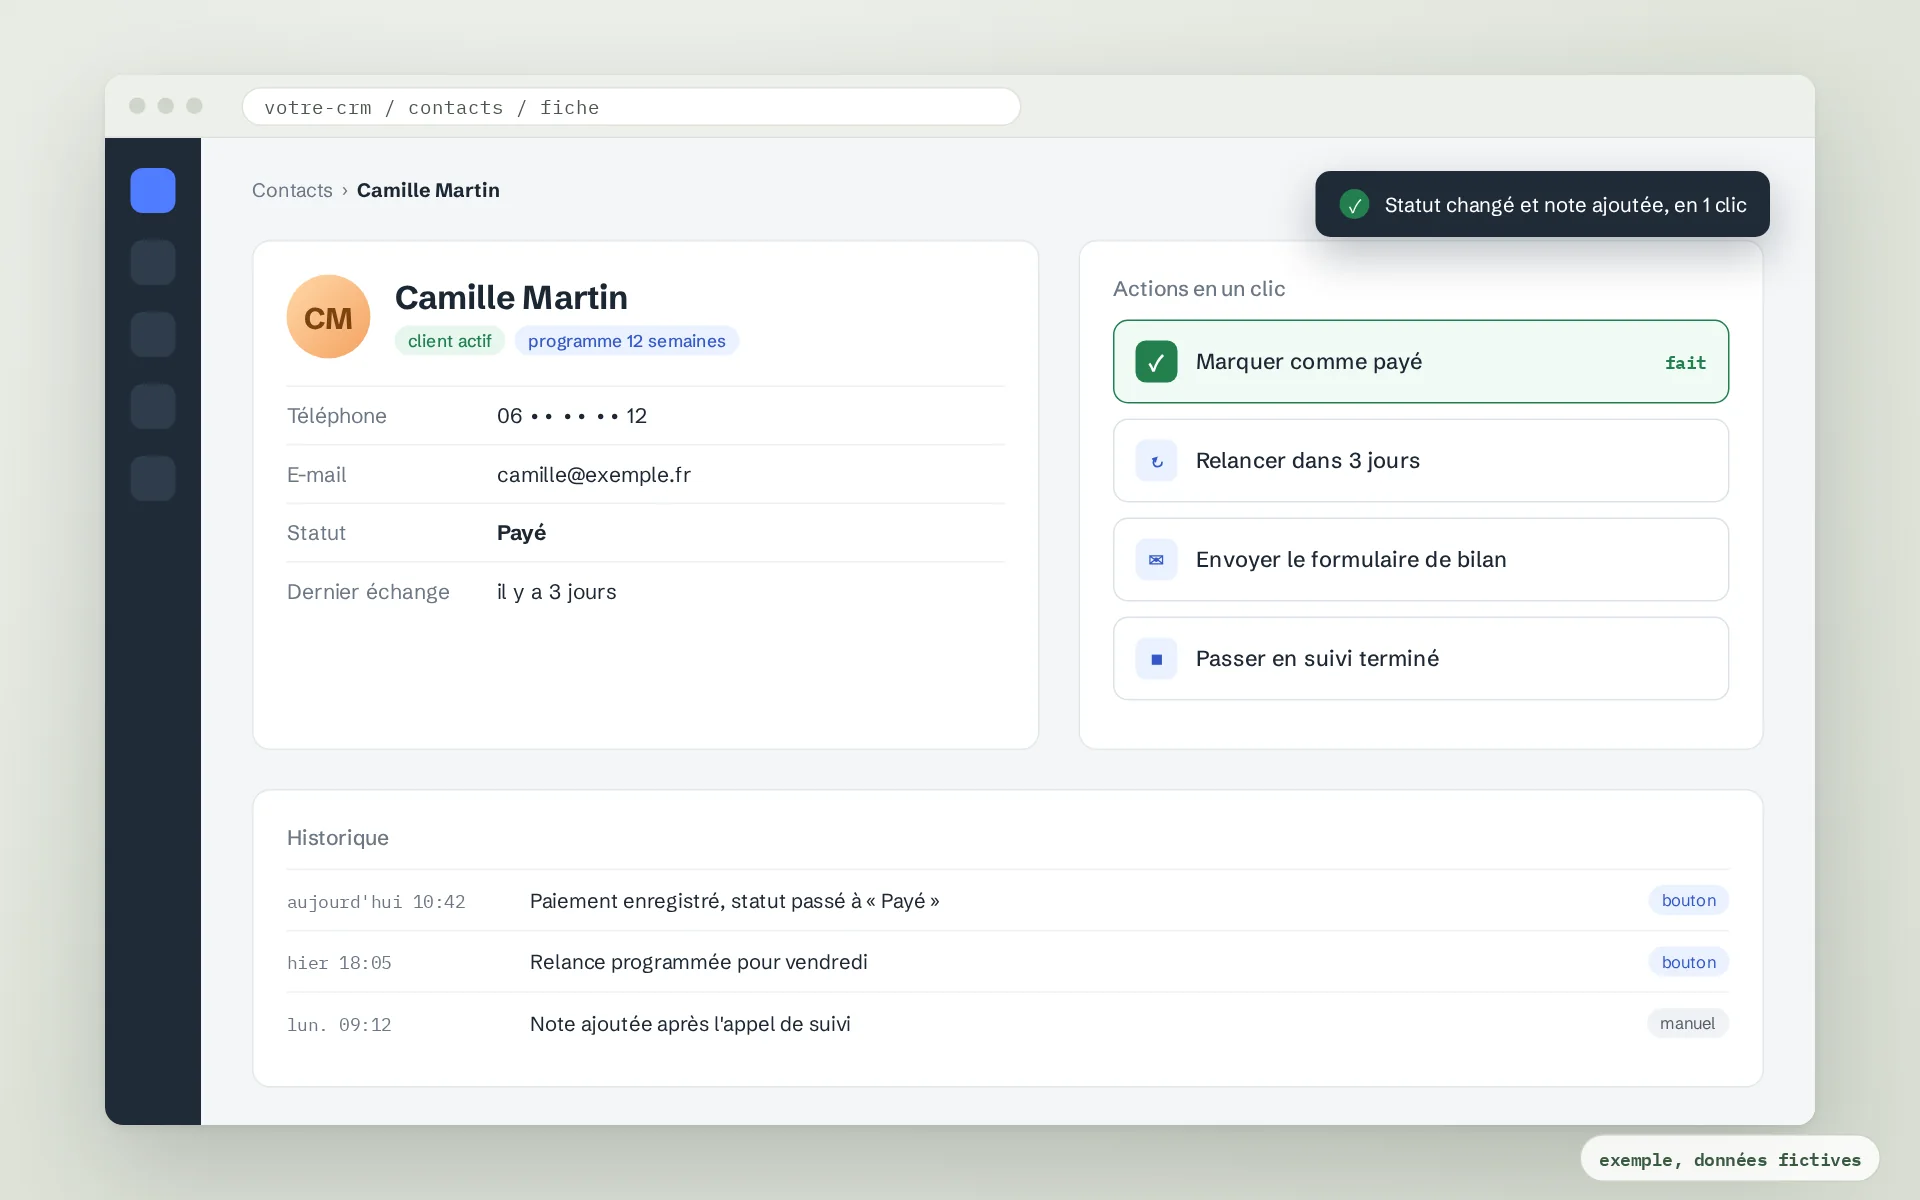
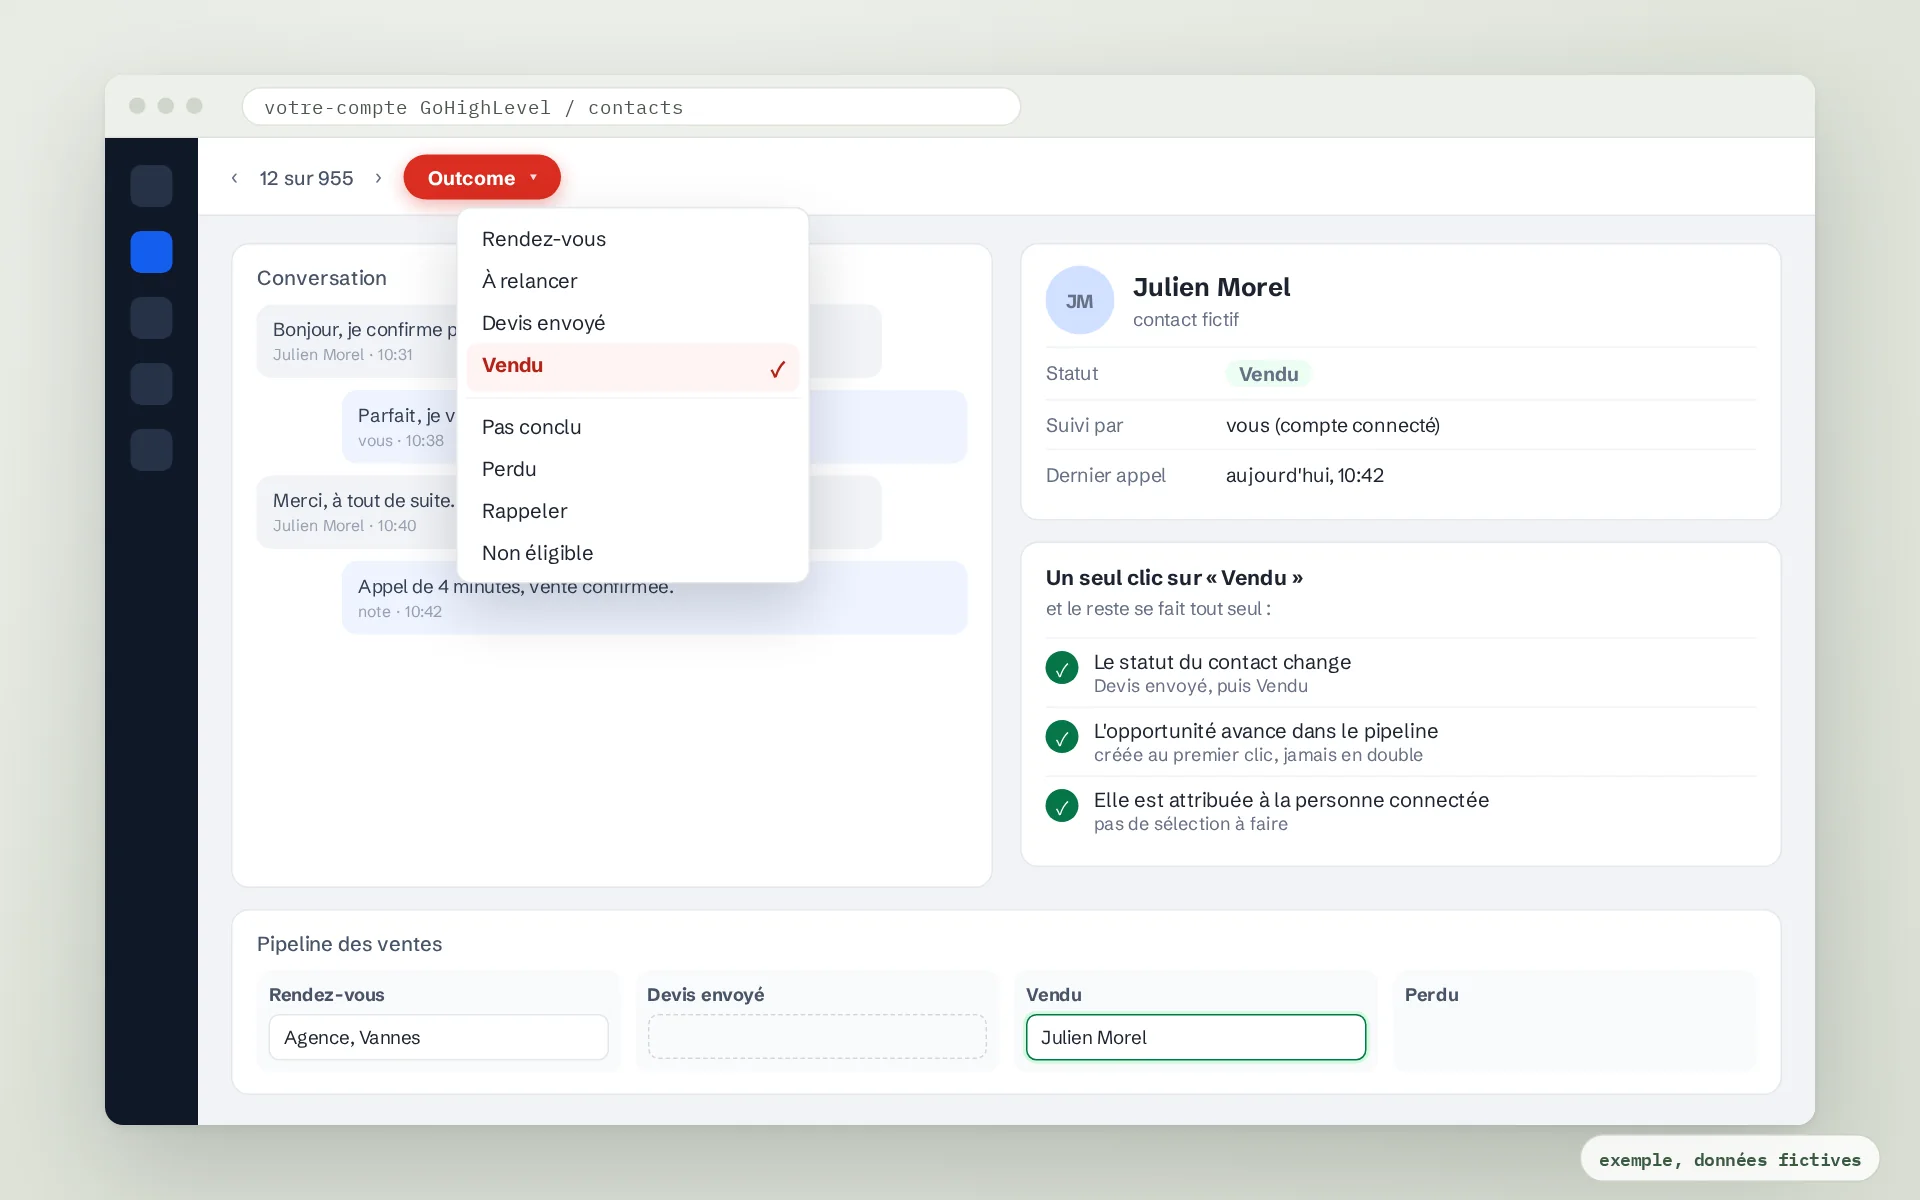
Catalogue: vrai bouton Outcome, captures de boutique en production (nom masque), galerie HubSpot retiree
Claude-Session: https://claude.ai/code/session_019hxRZNN5iVjCTJGeNpFnT5

diff --git a/catalogue.html b/catalogue.html
@@ -134,6 +134,7 @@
         .gallery .g-label { font-family: 'IBM Plex Mono', monospace; font-size: 0.78rem; color: var(--fern); font-weight: 600; margin-bottom: 0.6rem; }
         .gallery .g-grid { display: grid; gap: 0.8rem; grid-template-columns: minmax(0, 1fr); }
         .gallery.multi .g-grid { grid-template-columns: repeat(2, minmax(0, 1fr)); }
+        .gallery.multi figure:first-child:nth-last-child(odd) { grid-column: 1 / -1; }
         .gallery figure { margin: 0; }
         .gallery button { display: block; width: 100%; padding: 0; border: 1px solid var(--line); border-radius: 8px; overflow: hidden; background: var(--panel); cursor: zoom-in; }
         .gallery img { display: block; width: 100%; height: auto; aspect-ratio: 16 / 10; object-fit: cover; transition: transform 0.3s; }
@@ -464,7 +465,7 @@
             <div class="gallery">
                 <p class="g-label">à quoi ça ressemble</p>
                 <div class="g-grid">
-                    <figure><button type="button" data-full="galerie/02_crm_boutons.webp"><img src="galerie/02_crm_boutons_m.webp" alt="Fiche client d'un CRM avec quatre boutons d'action" width="960" height="600" loading="lazy"></button><figcaption>Une fiche client et ses quatre actions, un clic chacune (exemple fictif)</figcaption></figure>
+                    <figure><button type="button" data-full="galerie/02_crm_boutons.webp"><img src="galerie/02_crm_boutons_m.webp" alt="Fiche d'un contact dans GoHighLevel avec le bouton Outcome ouvert sur la liste des statuts" width="960" height="600" loading="lazy"></button><figcaption>Le bouton « Outcome » : un clic change le statut et fait avancer l'opportunité dans le pipeline (exemple fictif)</figcaption></figure>
                 </div>
             </div>
         </div>
@@ -496,12 +497,6 @@
                 </table>
                 <p style="font-size:0.85rem;color:var(--muted);margin-bottom:1.1rem;">Mise en place dans HubSpot, y compris sa version gratuite. L'abonnement éventuel à HubSpot reste chez l'éditeur, pas chez moi.</p>
                 <a class="btn js-contact" data-product="Mise en place HubSpot : le CRM du matin" href="mailto:paulgiunta@ia-lorient.fr?subject=Produit%20%3A%20Mise%20en%20place%20HubSpot&amp;body=Bonjour%20Paul%2C%0D%0A%0D%0AMon%20CRM%20actuel%20%3A%20%0D%0ACe%20que%20je%20perds%20de%20vue%20aujourd%27hui%20%3A%20%0D%0AMon%20t%C3%A9l%C3%A9phone%20%3A%20">Ce produit m'intéresse</a>
-            </div>
-            <div class="gallery">
-                <p class="g-label">à quoi ça ressemble</p>
-                <div class="g-grid">
-                    <figure><button type="button" data-full="galerie/03_crm_tableau_matin.webp"><img src="galerie/03_crm_tableau_matin_m.webp" alt="Tableau du matin d'un CRM : relances du jour, réponses à traiter, opportunités qui dorment" width="960" height="600" loading="lazy"></button><figcaption>Le tableau du matin : qui relancer, quoi traiter, ce qui dort (exemple fictif)</figcaption></figure>
-                </div>
             </div>
         </div>
     </div>
@@ -567,10 +562,12 @@
                 <p style="font-size:0.85rem;color:var(--muted);margin-bottom:1.1rem;">Tout commence par une conversation&nbsp;: nombre de boutiques, langues, volume de produits, puis le prix est fixé avant de commencer. L'abonnement Shopify et les frais d'IA restent à votre nom.</p>
                 <a class="btn js-contact" data-product="Boutique e-commerce générée" href="mailto:paulgiunta@ia-lorient.fr?subject=Produit%20%3A%20Boutique%20e-commerce%20g%C3%A9n%C3%A9r%C3%A9e&amp;body=Bonjour%20Paul%2C%0D%0A%0D%0AMa%20boutique%20ou%20mon%20projet%20%3A%20%0D%0ANombre%20de%20boutiques%20et%20de%20produits%20%3A%20%0D%0AMon%20t%C3%A9l%C3%A9phone%20%3A%20">Parlons-en</a>
             </div>
-            <div class="gallery">
+            <div class="gallery multi">
                 <p class="g-label">à quoi ça ressemble</p>
                 <div class="g-grid">
-                    <figure><button type="button" data-full="galerie/05a_boutique_avant_apres.webp"><img src="galerie/05a_boutique_avant_apres_m.webp" alt="Fiche produit d'un fournisseur, puis la fiche produit générée par le moteur" width="960" height="600" loading="lazy"></button><figcaption>La fiche du fournisseur, et la fiche que le moteur en tire (exemple fictif)</figcaption></figure>
+                    <figure><button type="button" data-full="galerie/05b_boutique_accueil.webp"><img src="galerie/05b_boutique_accueil_m.webp" alt="Page d'accueil d'une boutique en ligne montée avec le moteur, nom de la marque masqué" width="960" height="600" loading="lazy"></button><figcaption>Une boutique montée avec le moteur, en ligne aujourd'hui (nom masqué)</figcaption></figure>
+                    <figure><button type="button" data-full="galerie/05a_boutique_produit.webp"><img src="galerie/05a_boutique_produit_m.webp" alt="Fiche produit d'un sac avec une photo par couleur et des photos portées" width="960" height="600" loading="lazy"></button><figcaption>Une fiche produit : une photo par couleur, et des photos portées</figcaption></figure>
+                    <figure><button type="button" data-full="galerie/05c_boutique_mobile.webp"><img src="galerie/05c_boutique_mobile_m.webp" alt="La même boutique sur téléphone, accueil et fiche produit" width="960" height="600" loading="lazy"></button><figcaption>La même boutique sur téléphone</figcaption></figure>
                 </div>
             </div>
         </div>
